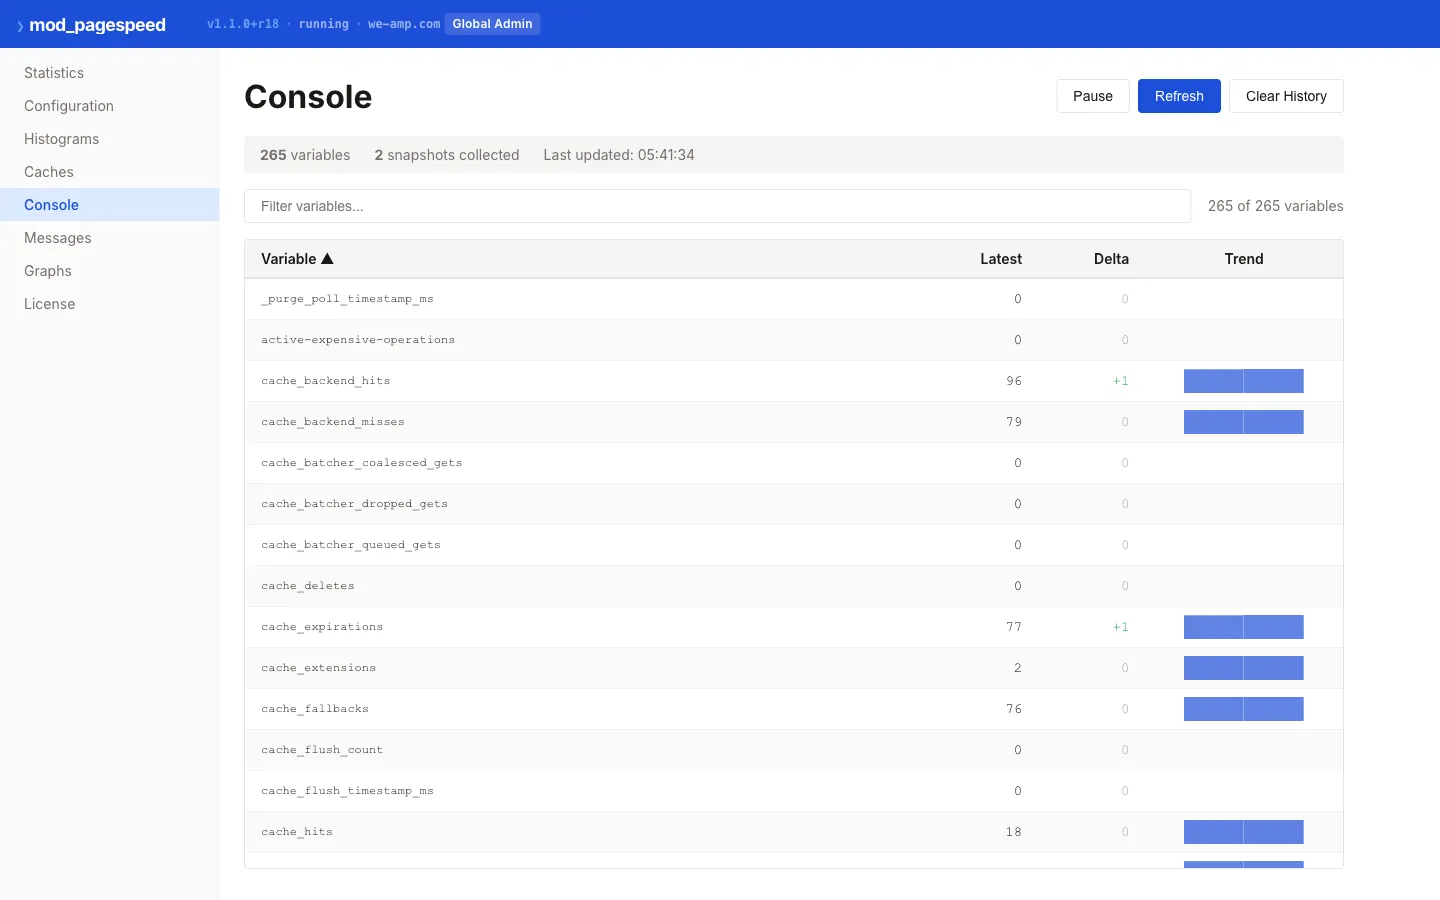
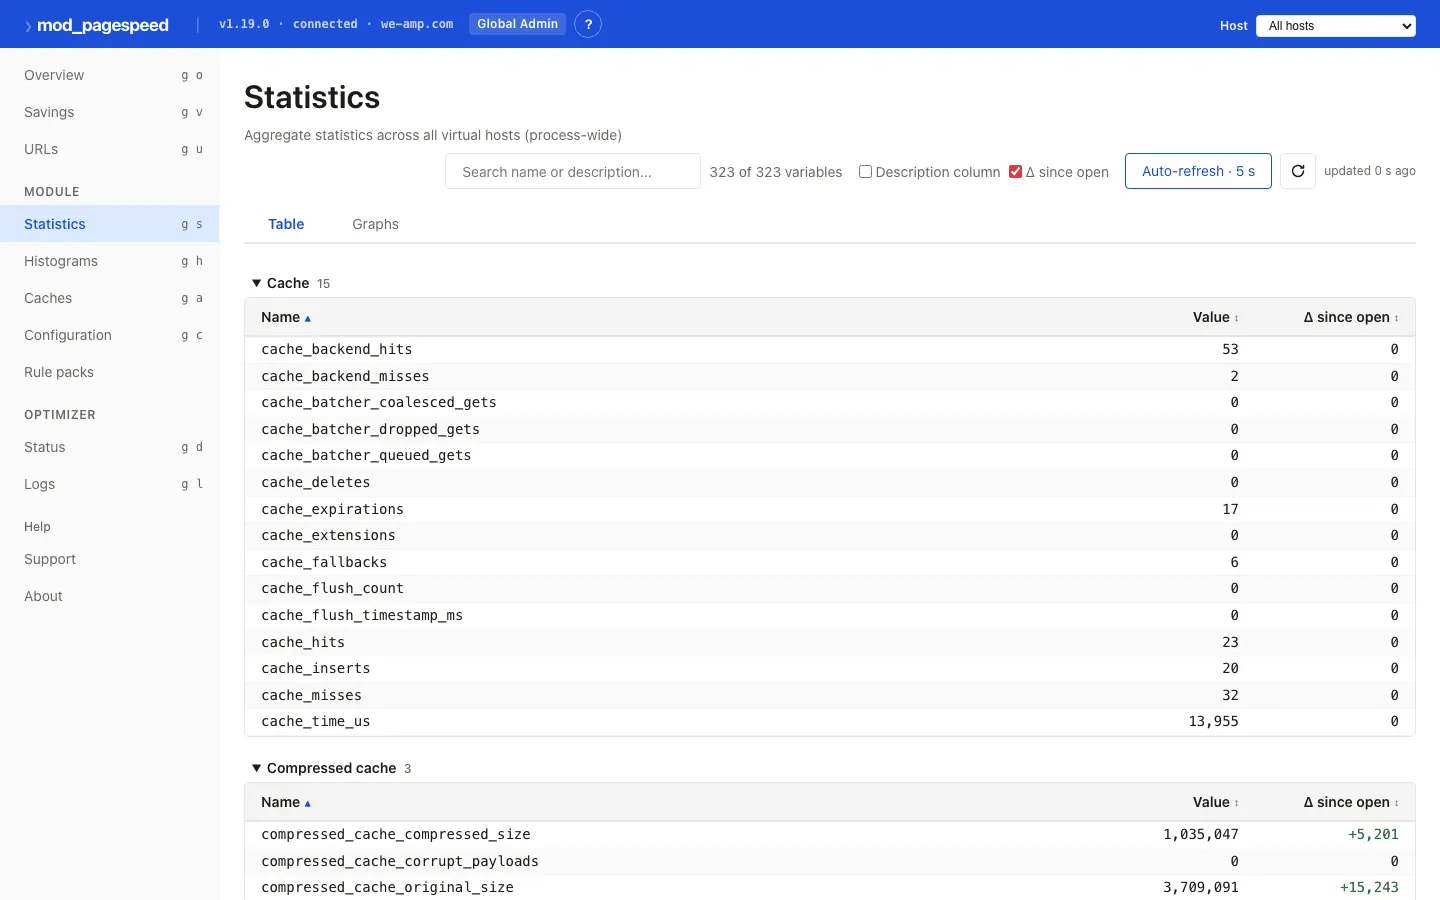
web(images): recapture the console screenshots at the current release and ship the home one responsive (#292)
* web(images): recapture the demo and docs console screenshots at the current release

The captures showed pre-renumber version strings. They now come from the
public read-only console (module 1.19.0, optimizer 2.4.0): Statistics with
the delta column for the admin view, and the Statistics graphs for the
dashboard view, which the console no longer has as a separate page.

* web(home): recapture the console overview and serve it as a responsive image

The overview capture showed 1.17.0 / 2.2.0 and shipped 1440 px wide into a
378 px slot. Add 480, 768 and 1024 px variants with srcset and sizes; src
stays the 1440 px file.

* web(images): describe the recaptured console views in the alt texts

The three alt texts now describe the recaptured Statistics table and Graphs views; the generated full-text index follows the docs change.

diff --git a/website/src/content/docs/admin-console.md b/website/src/content/docs/admin-console.md
@@ -20,7 +20,7 @@ The console heads the optimizer worker's card on its Overview page "Optimizer da
 
 <img
   src="/images/console-1.1-admin.png"
-  alt="mod_pagespeed 1.15 admin console showing live statistics with per-variable deltas and trend sparklines"
+  alt="mod_pagespeed admin console Statistics table listing cache counters with a value column and a delta-since-open column"
   width="1440"
   height="900"
   loading="lazy"
